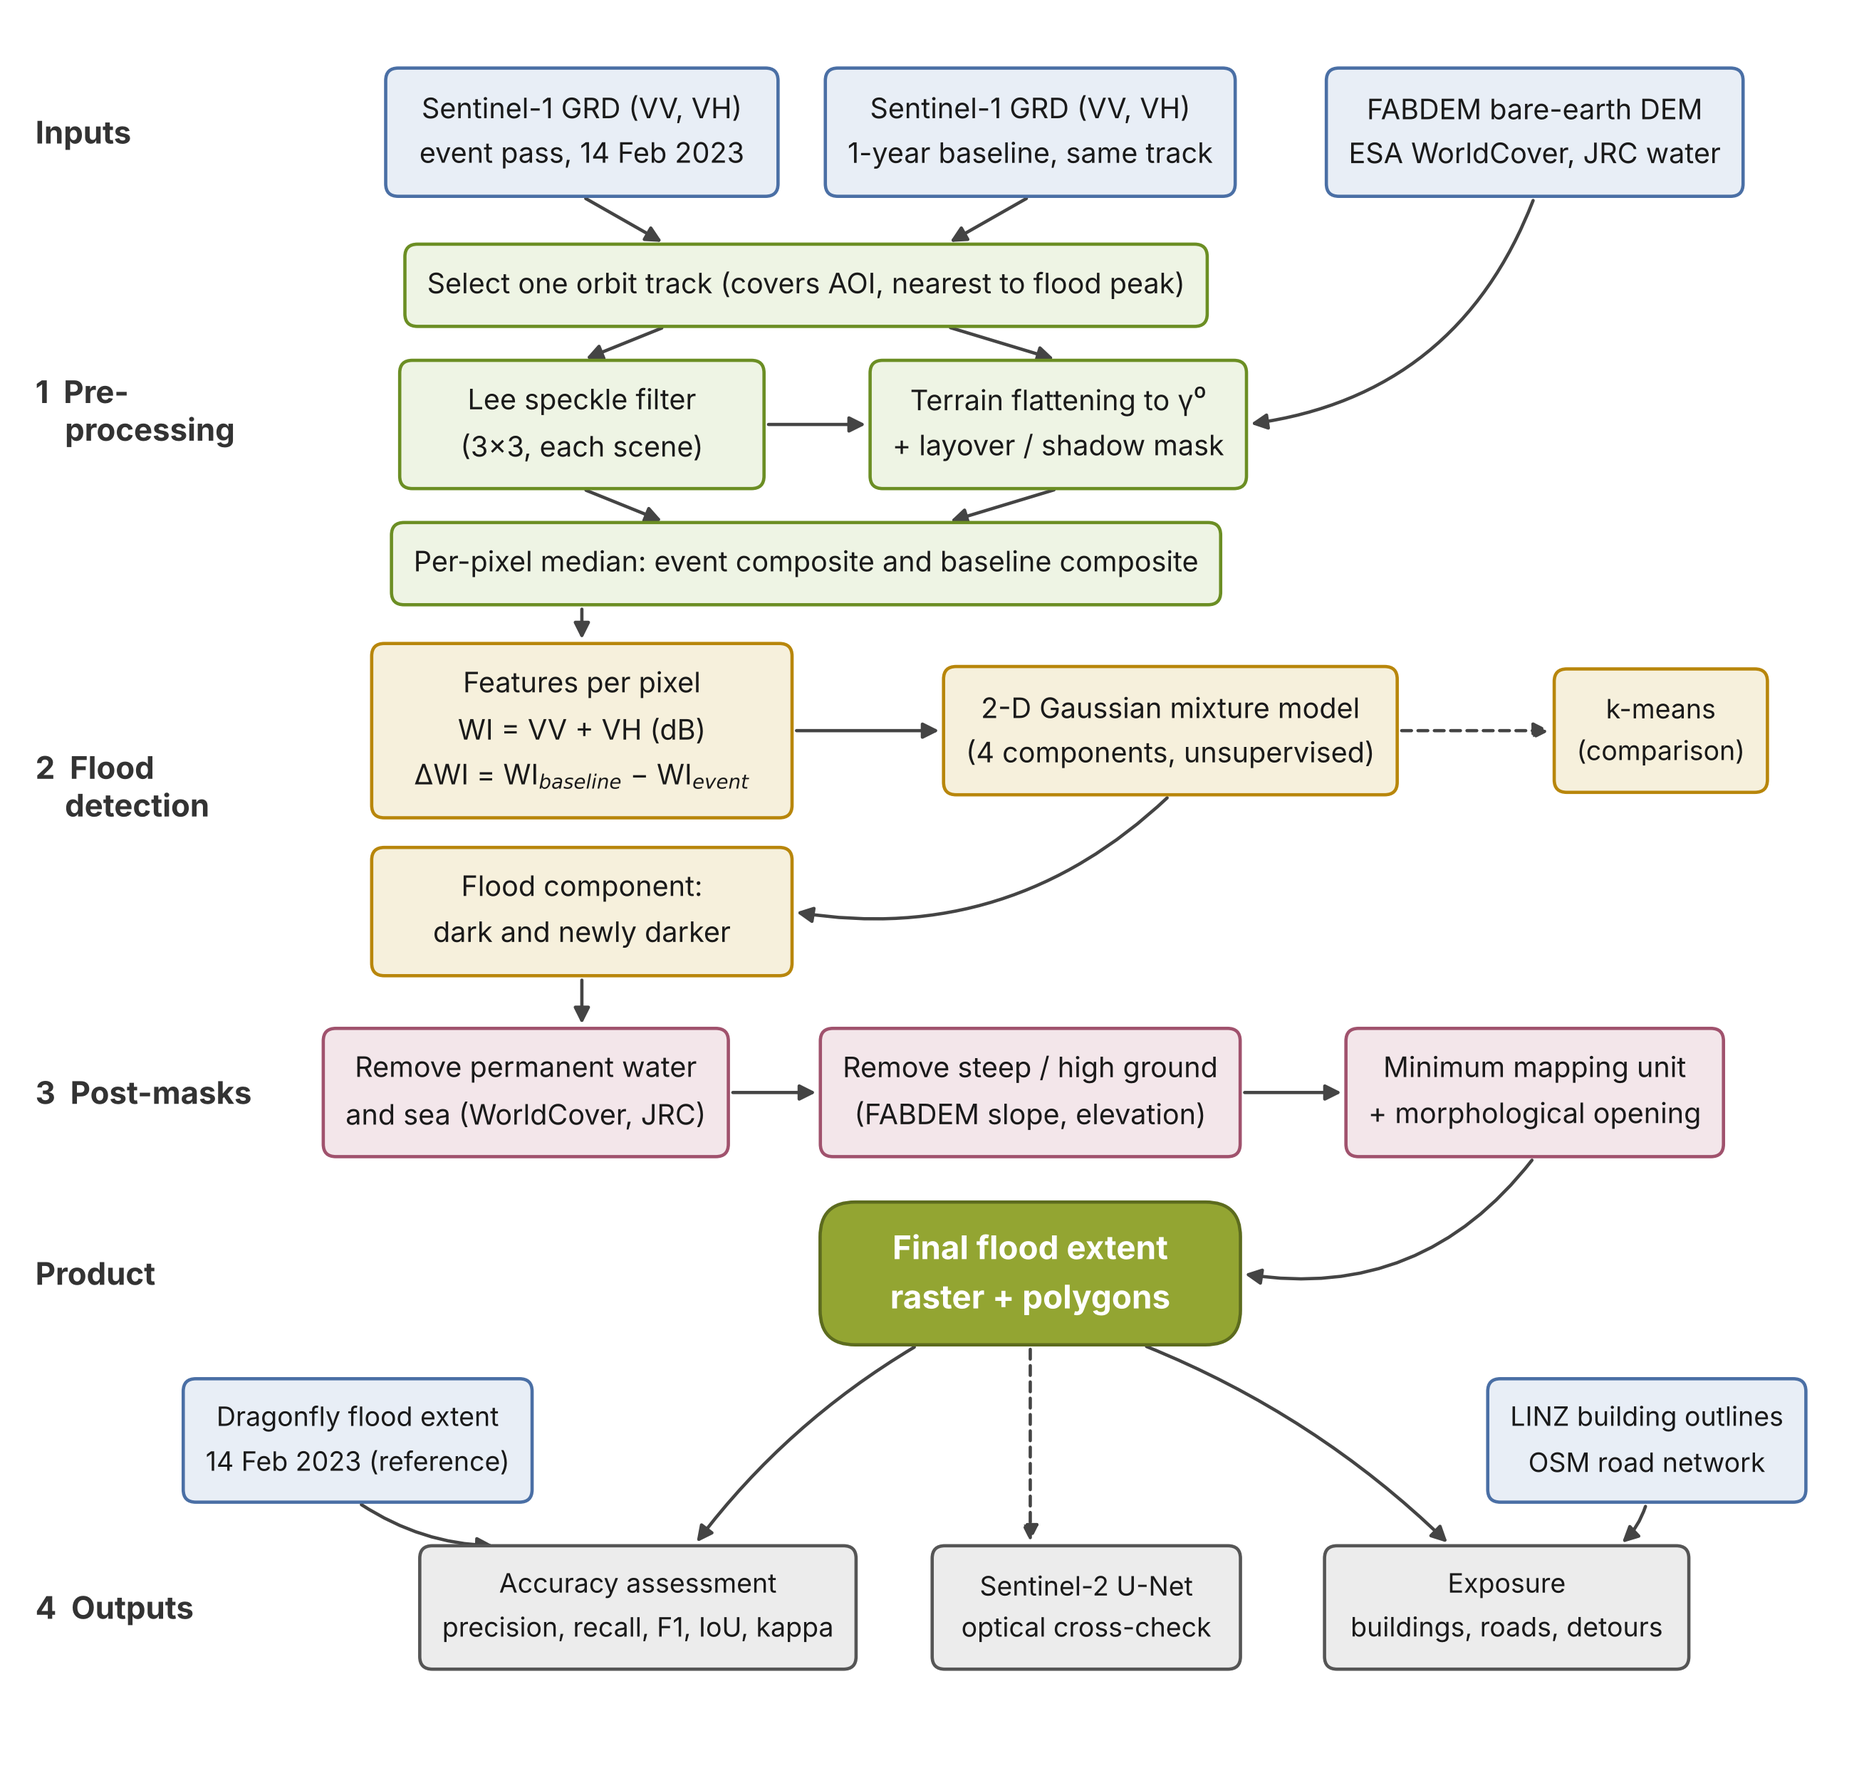
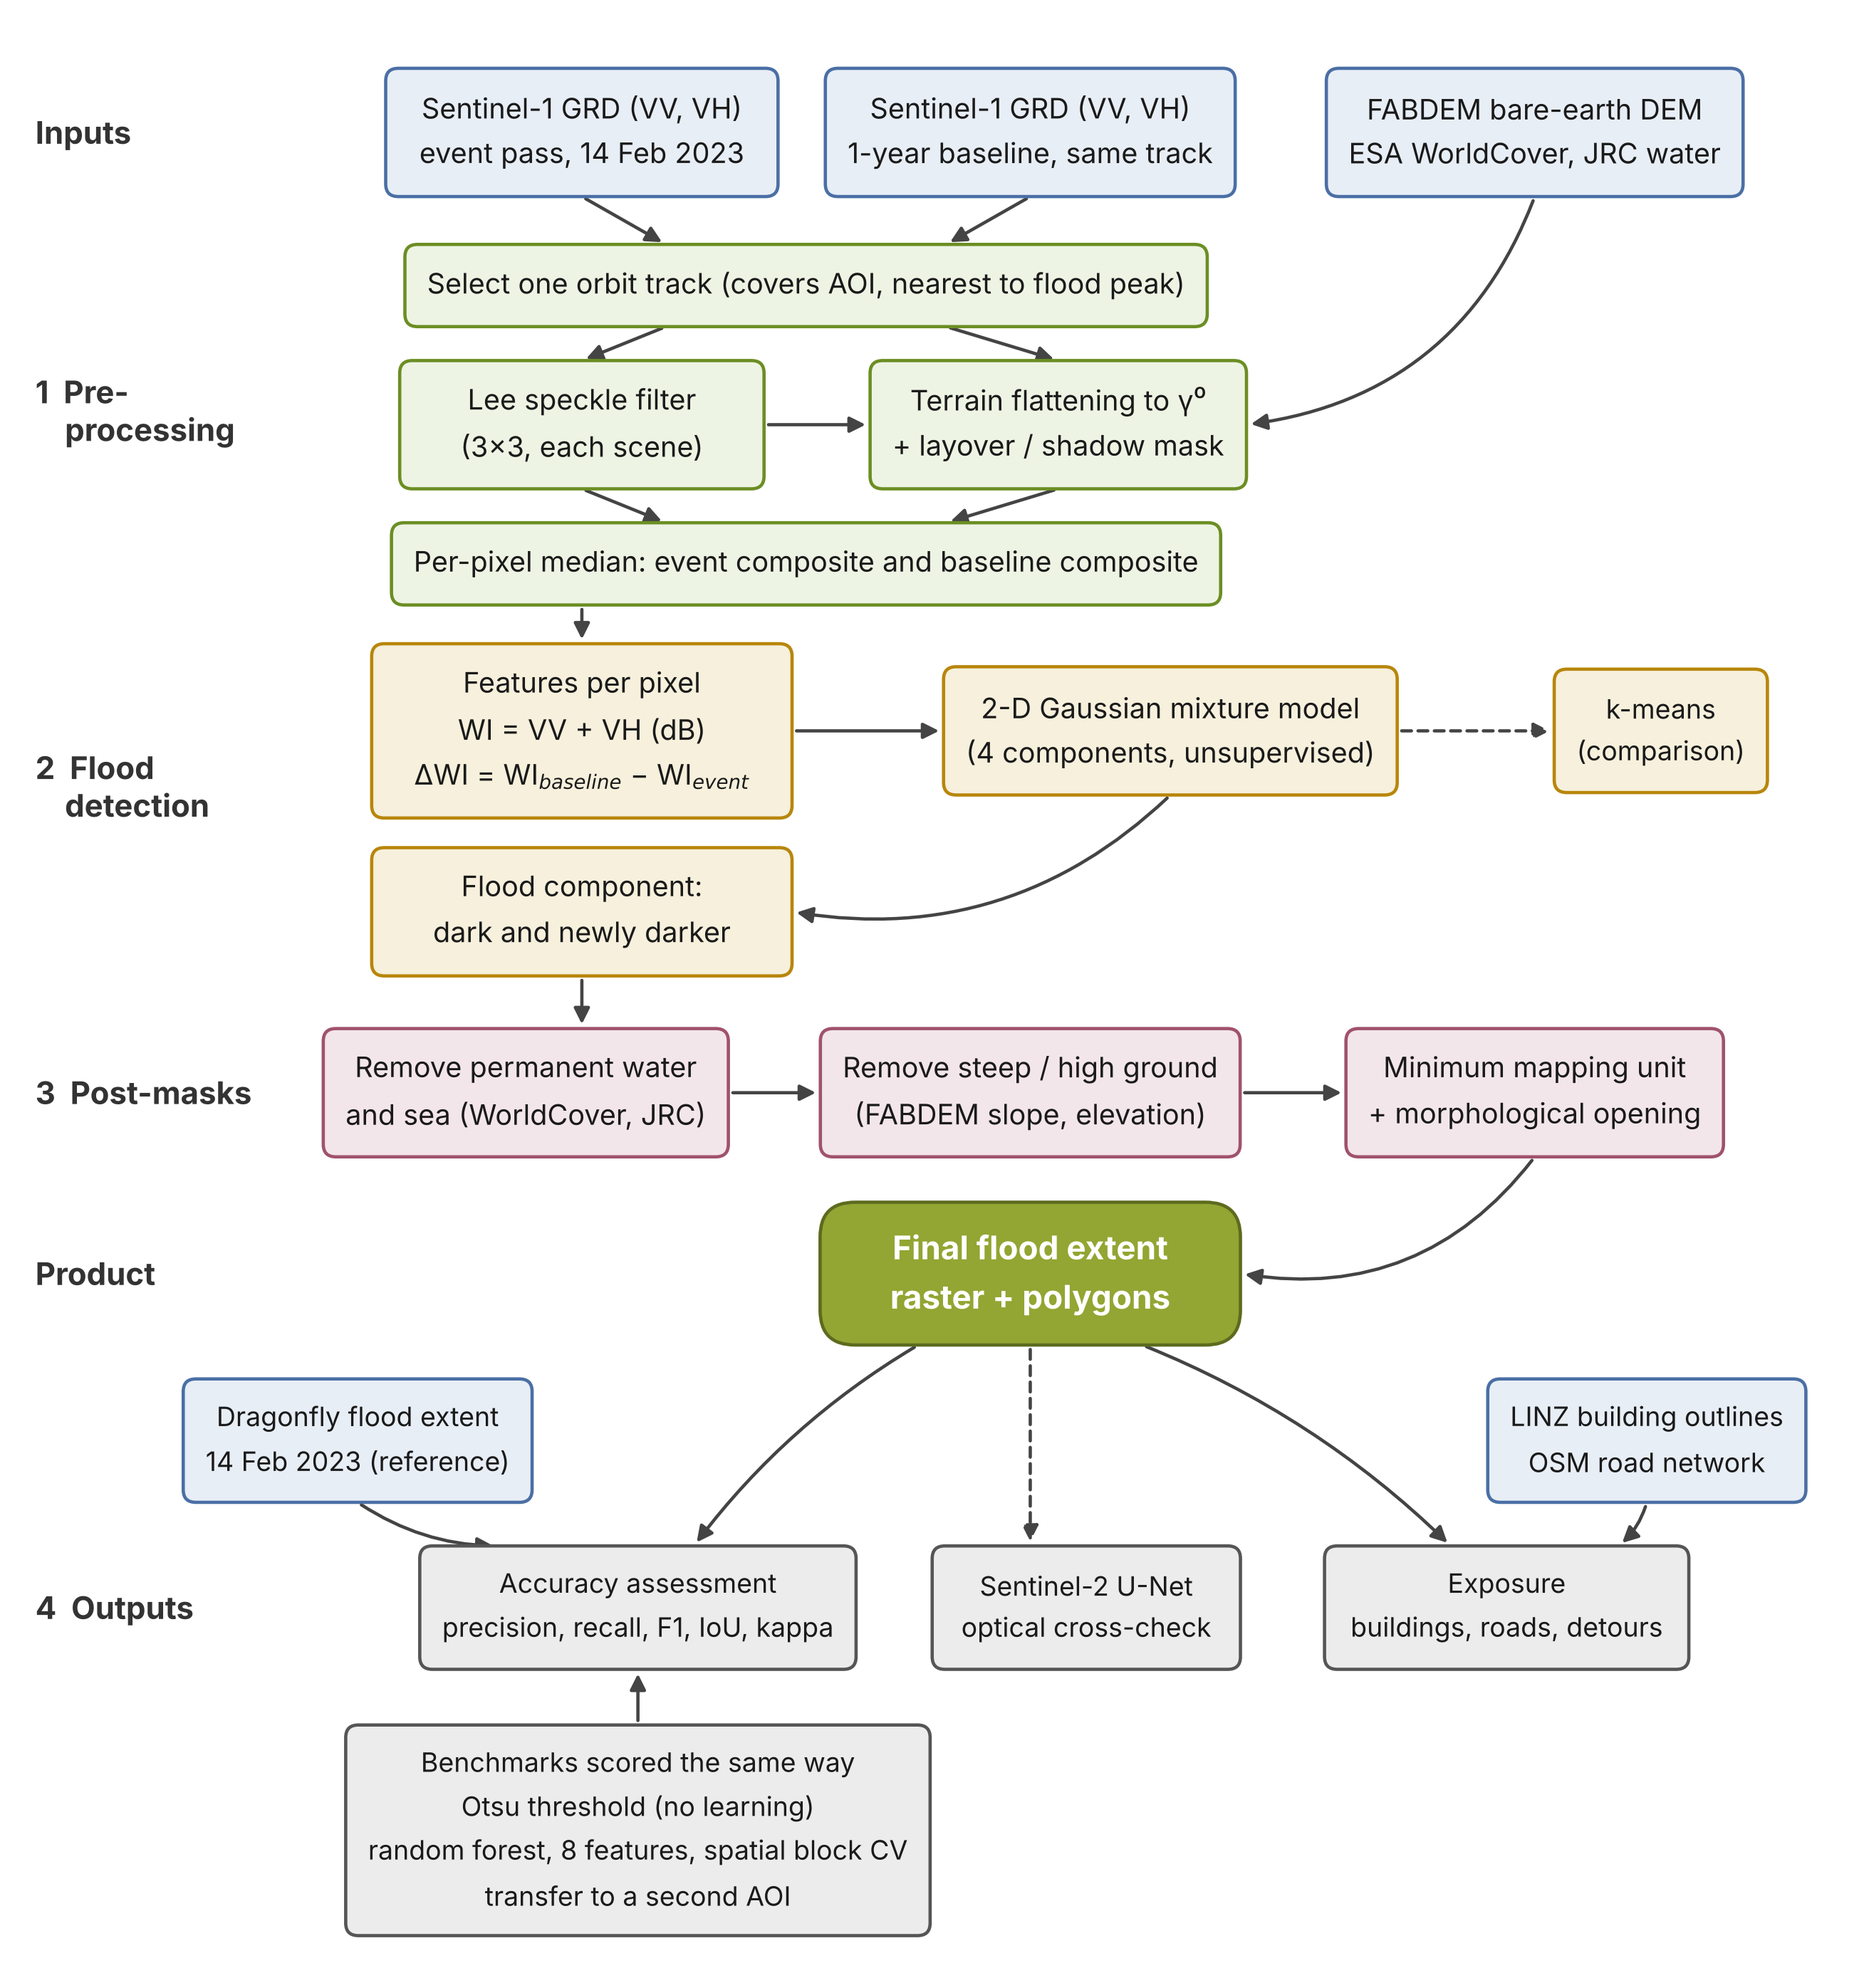
flowchart adjustments

diff --git a/scripts/make_flowchart.py b/scripts/make_flowchart.py
@@ -9,9 +9,9 @@ from matplotlib.patches import FancyBboxPatch
 
 C = {"in": ("#e8eef6", "#4a6fa5"), "pre": ("#eef4e4", "#6b8e23"), "cl": ("#f6f0dc", "#b8860b"),
      "pm": ("#f3e6ea", "#a0526d"), "out": ("#ececec", "#555555"), "fin": ("#93a532", "#5c6b1e")}
-W, H = 130, 124
+W, H = 130, 138
 fig, ax = plt.subplots(figsize=(11, 11 * H / W))
-ax.set_xlim(0, W); ax.set_ylim(0, H); ax.axis("off")
+ax.set_xlim(0, W); ax.set_ylim(-14, 124); ax.axis("off")
 fig.canvas.draw(); R = fig.canvas.get_renderer()
 
 def box(x, y, text, kind, fs=9.5, bold=False, minw=0, round_=0.9):
@@ -64,6 +64,7 @@ vec = box(116, 22, "LINZ building outlines\nOSM road network", "in", fs=9)
 acc = box(44, 10, "Accuracy assessment\nprecision, recall, F1, IoU, kappa", "out", fs=9, minw=30)
 s2 = box(76, 10, "Sentinel-2 U-Net\noptical cross-check", "out", fs=9, minw=22)
 exp = box(106, 10, "Exposure\nbuildings, roads, detours", "out", fs=9, minw=26)
+bch = box(44, -6, "Benchmarks scored the same way\nOtsu threshold (no learning)\nrandom forest, 8 features, spatial block CV\ntransfer to a second AOI", "out", fs=9, minw=30)
 
 # Arrows
 arrow(B(s1e), T(trk, -10)); arrow(B(s1h), T(trk, 10))
@@ -81,7 +82,7 @@ arrow(B(mmu), Rt(fin), rad=-0.3)
 arrow(B(fin, -8), T(acc, 4), rad=0.1)
 arrow(B(fin), T(s2, -4), dashed=True)
 arrow(B(fin, 8), T(exp, -4), rad=-0.1)
-arrow(B(ref), T(acc, -10), rad=0.15); arrow(B(vec), T(exp, 8), rad=-0.15)
+arrow(B(ref), T(acc, -10), rad=0.15); arrow(T(bch), B(acc)); arrow(B(vec), T(exp, 8), rad=-0.15)
 
 from pathlib import Path
 out = Path(__file__).resolve().parents[1] / "outputs" / "pipeline_flowchart.png"

diff --git a/README.md b/README.md
@@ -19,7 +19,7 @@ After a disaster, ports may fail and beach landings become the fallback. Roads a
 5. **Post-masks** remove permanent water (ESA WorldCover, JRC), the sea and steep or high ground (FABDEM).
 6. **Exposure:** flood polygons are intersected with LINZ (or OSM) building outlines and the OSM road network, including in-AOI detours.
 
-A Sentinel-2 U-Net layer gives an optical cross-check, and an experimental silt model is discussed in [docs/methods.md](docs/methods.md#discussion).
+The GMM is benchmarked against a non-learning **Otsu threshold** and a supervised **random forest** (200 trees, 8 features, 4-fold spatial block cross-validation), and every method is rerun on a **second AOI** 35 km south-west to test transfer. A Sentinel-2 U-Net layer gives an optical cross-check, and an experimental silt model is discussed in [docs/methods.md](docs/methods.md#discussion).
 
 ```mermaid
 flowchart LR
@@ -31,7 +31,10 @@ flowchart LR
   G --> H["Buildings affected (LINZ / OSM)"]
   G --> I["Roads affected + detours (OSM)"]
   G --> J["Validation vs Dragonfly"]
+  K["Benchmarks: Otsu, random forest (spatial CV), transfer AOI"] --> J
 ```
+
+The report version of this diagram is `outputs/pipeline_flowchart.png`, drawn by `scripts/make_flowchart.py`.
 
 ## Data sources
 
@@ -39,6 +42,7 @@ flowchart LR
 | --- | --- | --- |
 | Sentinel-1 GRD (VV, VH) | Copernicus via Google Earth Engine | Flood detection |
 | Sentinel-2 L1C | Copernicus via Google Earth Engine | Optical cross-check (U-Net) |
+| s2cloudless cloud probability | Google Earth Engine | Cloud mask for the optical cross-check |
 | FABDEM bare-earth DEM | `projects/sat-io/open-datasets/FABDEM` | Elevation, slope, terrain flattening |
 | ESA WorldCover 2021, JRC Global Surface Water | Google Earth Engine | Permanent water mask |
 | NZ Building Outlines | [LINZ](https://data.linz.govt.nz/layer/101290-nz-building-outlines/) (local file) | Buildings affected |
@@ -54,6 +58,19 @@ flowchart LR
 | F1 / IoU | 0.713 / 0.554 |
 | Cohen's kappa / Overall accuracy | 0.653 / 0.894 |
 | Recall, non-urban vs urban | 0.580 vs 0.001 |
+
+### Method comparison (all with post-masks, F1 against Dragonfly)
+
+| Method | Main AOI F1 | Second AOI F1 |
+| --- | --- | --- |
+| GMM (unsupervised, final) | 0.713 | 0.752 |
+| k-means | 0.719 | 0.666 |
+| Otsu threshold (no learning) | 0.854 | 0.757 |
+| Random forest, spatial CV (trained locally) | 0.858 | 0.725 |
+| Random forest trained on main AOI (transfer) | n/a | 0.743 |
+| Sentinel-2 U-Net, whole AOI / clear sky | 0.594 / 0.664 | n/a |
+
+In the main AOI, Otsu and the random forest beat the GMM, but in the second AOI the GMM, Otsu and the transferred random forest are within 0.015 F1. Urban recall stays near zero for every radar method, including the random forest. Full tables: `outputs/validation/method_comparison.csv` and `outputs/validation_aoi2/method_comparison.csv`.
 
 The map is conservative: almost everything mapped as flood is flood, but about 44% of the reference flood is missed. Urban flooding is not detected because flooded streets stay bright in radar (double bounce). The reference is itself a Sentinel-1 product, so these scores measure method agreement and are an upper bound, not field accuracy. Scores are written to `outputs/validation/scores.csv`.
 
@@ -89,8 +106,25 @@ Open the repo folder in VS Code or Jupyter, select the `.venv` kernel, and run t
 | --- | --- |
 | `01_sentinel1_layer.ipynb` | Flood map, buildings and roads affected, `outputs/s1_road_detours.png` |
 | `02_sentinel2_layer.ipynb` | Sentinel-2 U-Net flood layer |
-| `04_validation.ipynb` | Scores and agreement map in `outputs/validation/` |
+| `04_validation.ipynb` | Scores, agreement map, model selection, Otsu baseline, random forest in `outputs/validation/` |
+| `04b_validation_aoi2.ipynb` | Same comparison for the second AOI in `outputs/validation_aoi2/` |
 | `05_silt_layer.ipynb` | Experimental silt model in `outputs/silt_layer/` (discussion only) |
+| `06_study_area.ipynb` | Study area map with both AOIs, `outputs/study_area.png` |
+
+The flowchart is redrawn with `uv run python scripts/make_flowchart.py`.
+
+### Report figures
+
+| Figure | File | Made by |
+| --- | --- | --- |
+| 1 Study area | `outputs/study_area.png` | `06_study_area.ipynb` |
+| 2 Pipeline flowchart | `outputs/pipeline_flowchart.png` | `scripts/make_flowchart.py` |
+| 3 GMM vs k-means feature space | `outputs/validation/gmm_feature_space.png` | `04_validation.ipynb` |
+| 4 Flood map and exposure | `outputs/s1_flood_2x2.png` | `01_sentinel1_layer.ipynb` |
+| 5 Agreement map | `outputs/validation/agreement.png` | `04_validation.ipynb` |
+| 6 Model selection and precision–recall | `outputs/validation/model_selection.png` | `04_validation.ipynb` |
+| 7 Random forest CV design and importance | `outputs/validation/rf_cv_importance.png` | `04_validation.ipynb` |
+| 8 Sentinel-2 optical cross-check | `outputs/s2_unet_1x3.png` | `02_sentinel2_layer.ipynb` |
 
 AOI, dates and thresholds are set in `notebooks/layer_config.py`. LINZ building outlines must be downloaded separately into `data/nz-building/` (see [docs/methods.md](docs/methods.md#counting-affected-buildings-linz-or-osm--flood)); without them, OSM buildings are used.
 
@@ -105,11 +139,11 @@ Then open http://127.0.0.1:8000. Runs take several minutes.
 ## Repository layout
 
 ```text
-notebooks/      analysis notebooks (01–05) and layer_config.py
+notebooks/      analysis notebooks (01–06, 04b) and layer_config.py
 processing/     shared pipeline code (preprocessing, track choice, GMM, buildings, roads, S2)
-outputs/        validation scores, figures and flood polygons
+outputs/        figures, flood polygons, validation/ (main AOI) and validation_aoi2/ scores
 ui/             FastAPI + Leaflet map app
-scripts/        download_osm.py for offline OSM roads and buildings
+scripts/        download_osm.py (offline OSM data), make_flowchart.py (Figure 2)
 data/           local LINZ building outlines (not committed)
 docs/           methods.md: full technical detail
 assets/         README images and logo
@@ -119,9 +153,9 @@ assets/         README images and logo
 
 - Urban flooding is missed (radar double bounce).
 - False alarms cluster on post-flood silt and wet ground.
-- Tested on one event and one AOI so far.
-- Sentinel-2 results are affected by cloud.
-- The validation reference is a model product, not field survey data.
+- Tested on one event, in two flat AOIs.
+- Sentinel-2 results are affected by cloud (43% of the main AOI) and over-predict flood (precision about 0.5).
+- The validation reference is a model product from the same Sentinel-1 pass, not field survey data, so scores are an upper bound.
 
 See [docs/methods.md](docs/methods.md#discussion) for detail and further work.
 
@@ -132,5 +166,5 @@ See [docs/methods.md](docs/methods.md#discussion) for detail and further work.
 | Benjamin McLean | Problem framing and scope (HA/DR site selection after a disaster), method and data selection, Cyclone Gabrielle case study | [The problem](#the-problem), [Methods](docs/methods.md#observation-and-method), [Expected product](docs/methods.md#expected-product-and-risks) |
 | Dongwook Kim | Primary Sentinel-1 flood pipeline: unsupervised 2-D GMM on `WI` and `ΔWI`, WorldCover / JRC / FABDEM post-masks, flood vectorisation, area statistics; LINZ building and OSM road exposure | `notebooks/01_sentinel1_layer.ipynb`, `processing/pipeline.py`, `processing/buildings.py`, `processing/roads.py` |
 | Jianing Shi | Methods research and assessment; map UI (Sentinel-1 and Sentinel-2 tabs); Sentinel-2 flood layer using a pretrained U-Net (inference only) | `ui/`, `notebooks/02_sentinel2_layer.ipynb`, `processing/s2_pipeline.py` |
-| Jason Wong | Validation of the Sentinel-1 flood map against the Dragonfly 14 Feb flood extent (confusion matrix, precision, recall, F1, IoU, urban vs non-urban recall); GMM vs k-means comparison | `notebooks/04_validation.ipynb`, `outputs/validation/` |
+| Jason Wong | Validation of the Sentinel-1 flood map against the Dragonfly 14 Feb flood extent (confusion matrix, precision, recall, F1, IoU, urban vs non-urban recall); GMM vs k-means, model selection, Otsu baseline, random forest with spatial CV, transfer to a second AOI | `notebooks/04_validation.ipynb`, `notebooks/04b_validation_aoi2.ipynb`, `outputs/validation/`, `outputs/validation_aoi2/` |
 | Dhruv Patel | Experimental post-flood silt mapping (Random Forest, Dragonfly labels; not part of the validated product or UI); limitations analysis and further work | `notebooks/05_silt_layer.ipynb`, `outputs/silt_layer/`, [Discussion](docs/methods.md#discussion) |
